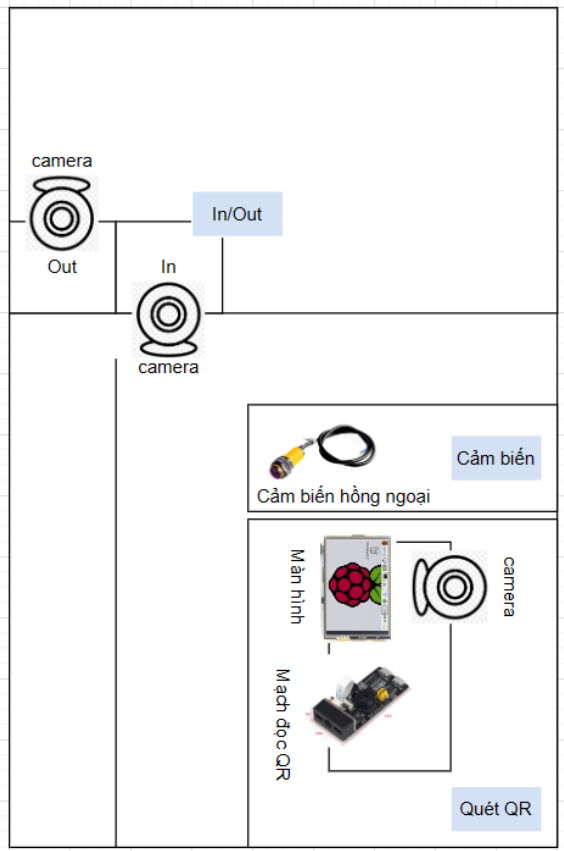
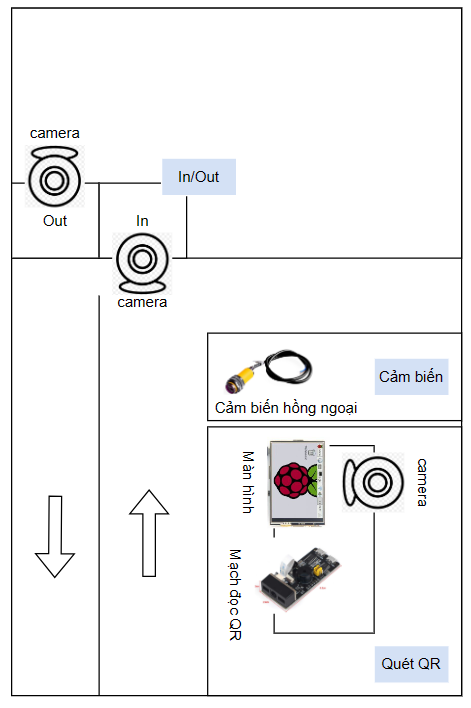
Update

Changed region(s): [[0.0, 0.0, 1.0, 1.0], [0.0594, 0.6836, 0.1486, 0.8079], [0.2675, 0.6836, 0.3567, 0.8079]]

diff --git a/README.md b/README.md
@@ -51,8 +51,15 @@ Thiết kế hệ thống điểm danh ra vào cho một sự kiện, sử dụn
 - Tiếp theo, quét mã QR, nếu mã QR không tồn tại trong hệ thống. Hệ thống sẽ thông báo `QR không tồn tại`. Ngược lại, hệ thống sẽ yêu cầu khách hàng chụp ảnh khuôn mặt và lưu vào database.
 
 ### Sơ đồ kết nối ngoại vi
+
+Tổng quan
+
 ![Hardware](https://github.com/nakhoa1010/QR-Checkin-System/blob/main/pic/hardware.png?raw=true)
 
+
+Sơ đồ kết nối các thành phần
+
+![sodothanhphan](https://github.com/nakhoa1010/QR-Checkin-System/blob/main/pic/sodoketnoi.png?raw=true)
 
 ### Các thành phần chính
 
